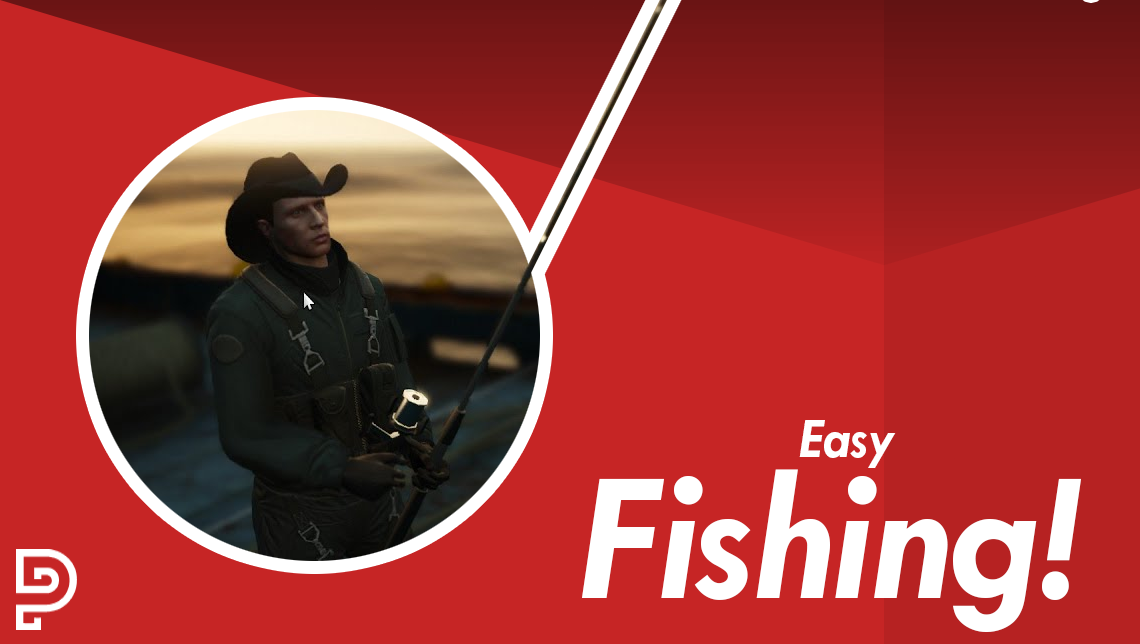
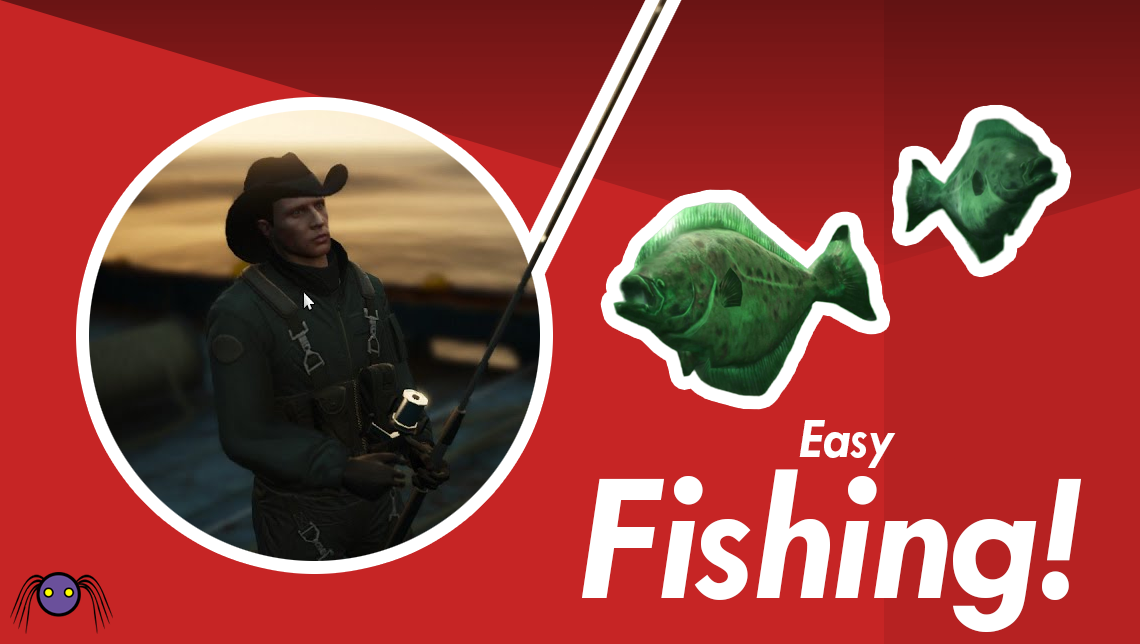
Changed branding

Changed region(s): [[0.5219, 0.1553, 0.9518, 0.6522], [0.0, 0.8385, 0.0921, 0.9938]]

diff --git a/index.md b/index.md
@@ -10,9 +10,9 @@ has_toc: true
 
 
 
-# Prime Modifications Resource Documentation
+# Deci Scripting Resource Documentation
 {: .no_toc}
-***The Prime way of Modding FiveM***
+***Your number one store for premium FiveM resources.***
 
 Welcome to our resource documentation. 
 Here you will find all you need to know about downloading, installing, and configuring the resources we offer!
@@ -34,11 +34,8 @@ table of contents
 
 [<img class='cover-img' width="25px" style="vertical-align: middle;" src='./assets/img/icons/youtube.png' alt='YouTube' draggable='false'> Script Showcases](https://www.youtube.com/channel/UC3CL8jOgWuRE6JV9oxsKeOg){: .btn .btn-red}
 
-<img class='cover-img' width="400px" src="https://media.giphy.com/media/xFFbpgPT09cCu3rdYw/giphy.gif" draggable="false">
-<img class='cover-img' width="400px" src="https://media.giphy.com/media/ED7kay0S3IyR55wvoK/giphy.gif" draggable="false">
-<img class='cover-img' width="400px" src="https://media.discordapp.net/attachments/933001131997663263/1013443058706169946/unknown.png?width=1193&height=671" draggable="false">
-<img class='cover-img' width="400px" src="https://media.giphy.com/media/k5Y6kog8beH1GJg2DT/giphy-downsized-large.gif" draggable="false">
-<img class='cover-img' width="400px" src="https://cdn.discordapp.com/attachments/933001131997663263/1008764820092358686/unknown.png" draggable="false">
+<img class='cover-img' width="400px" src="assets/img/packages/easyfishing-thumb.png" draggable="false">
+<img class='cover-img' width="400px" src="assets/img/packages/easygarages-thumb.png" draggable="false">
 
 ## Our Store
 
